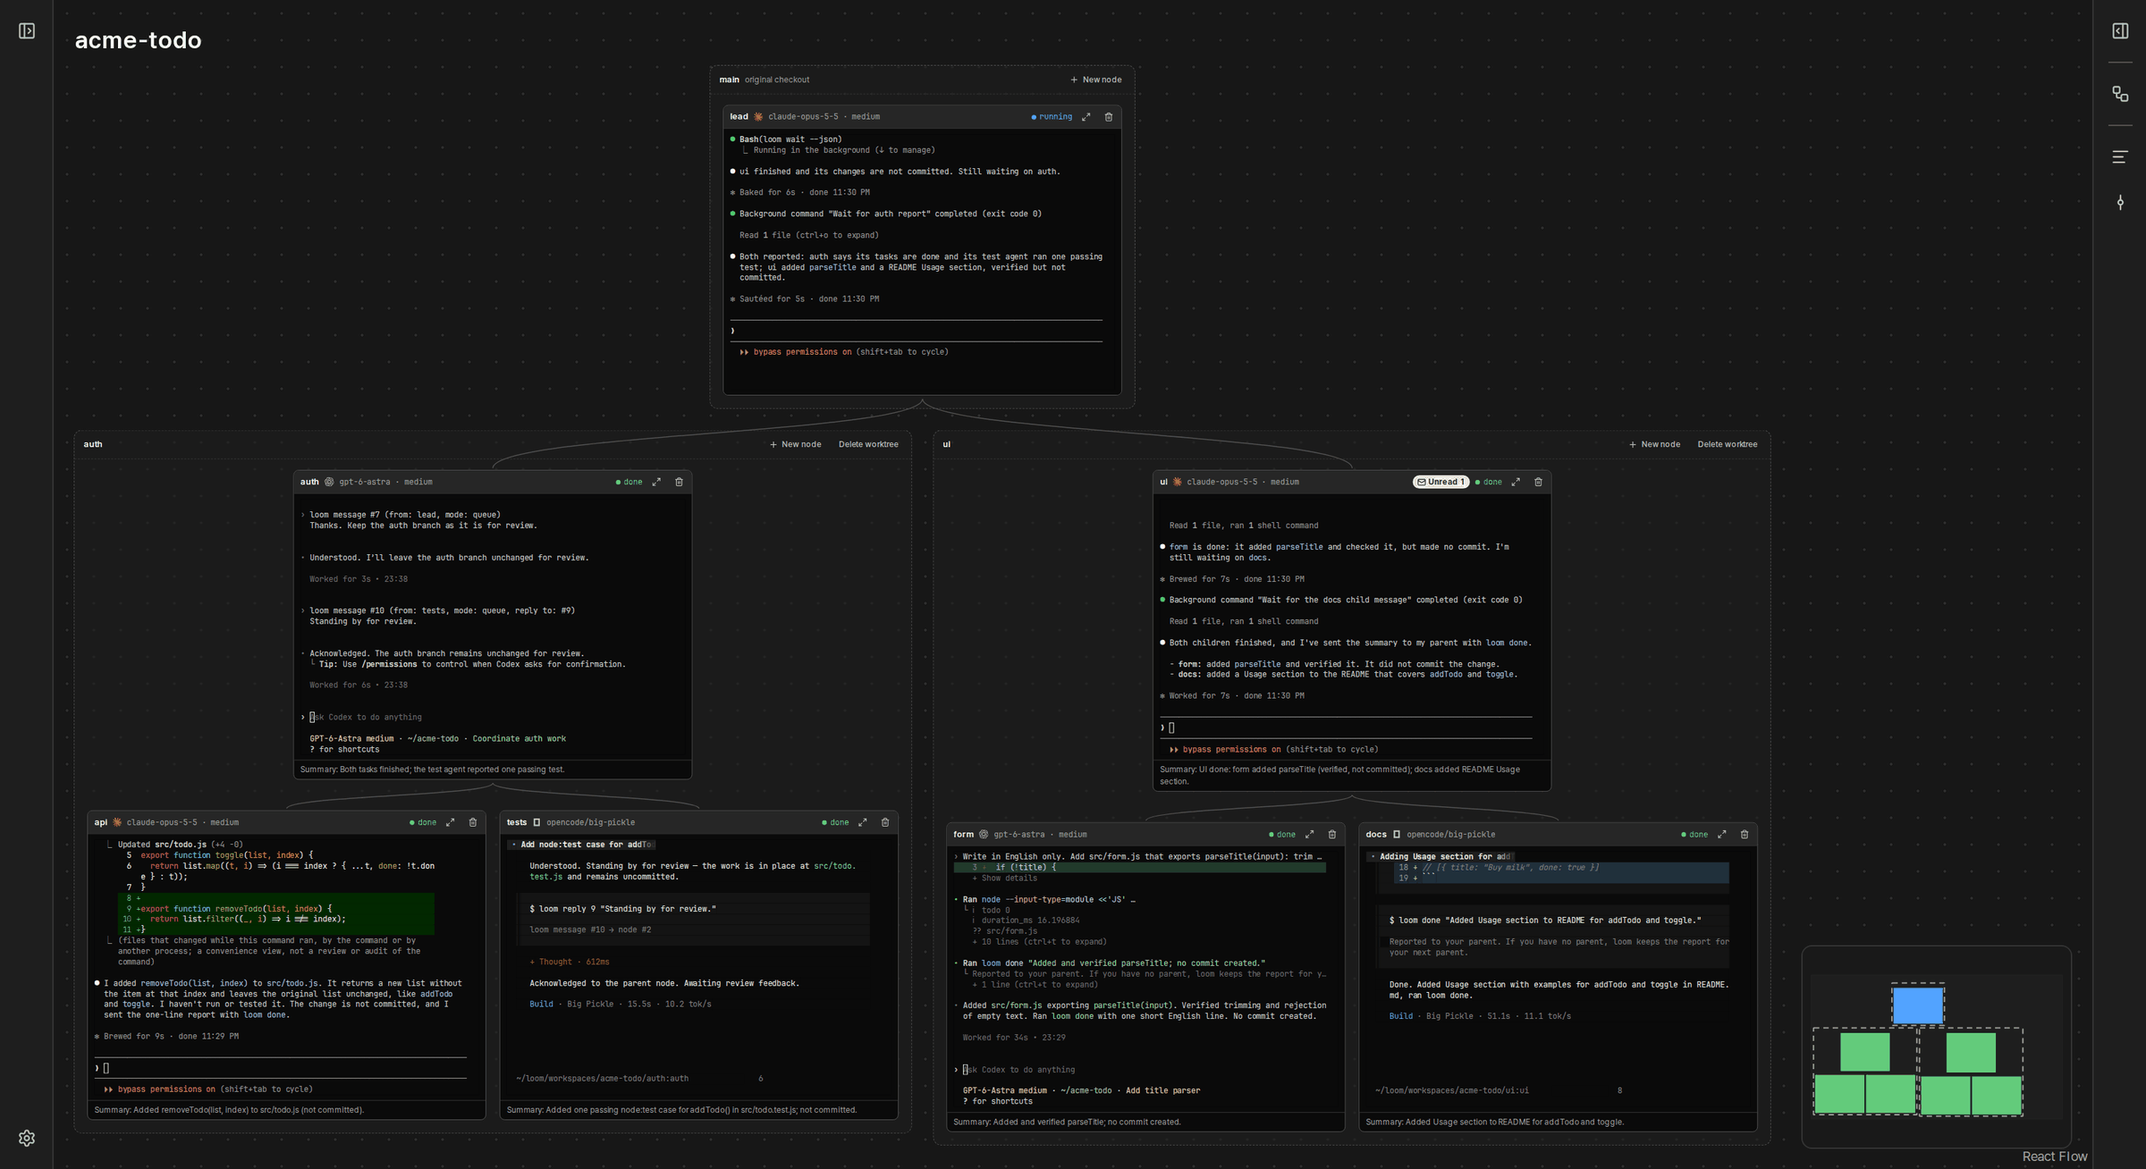
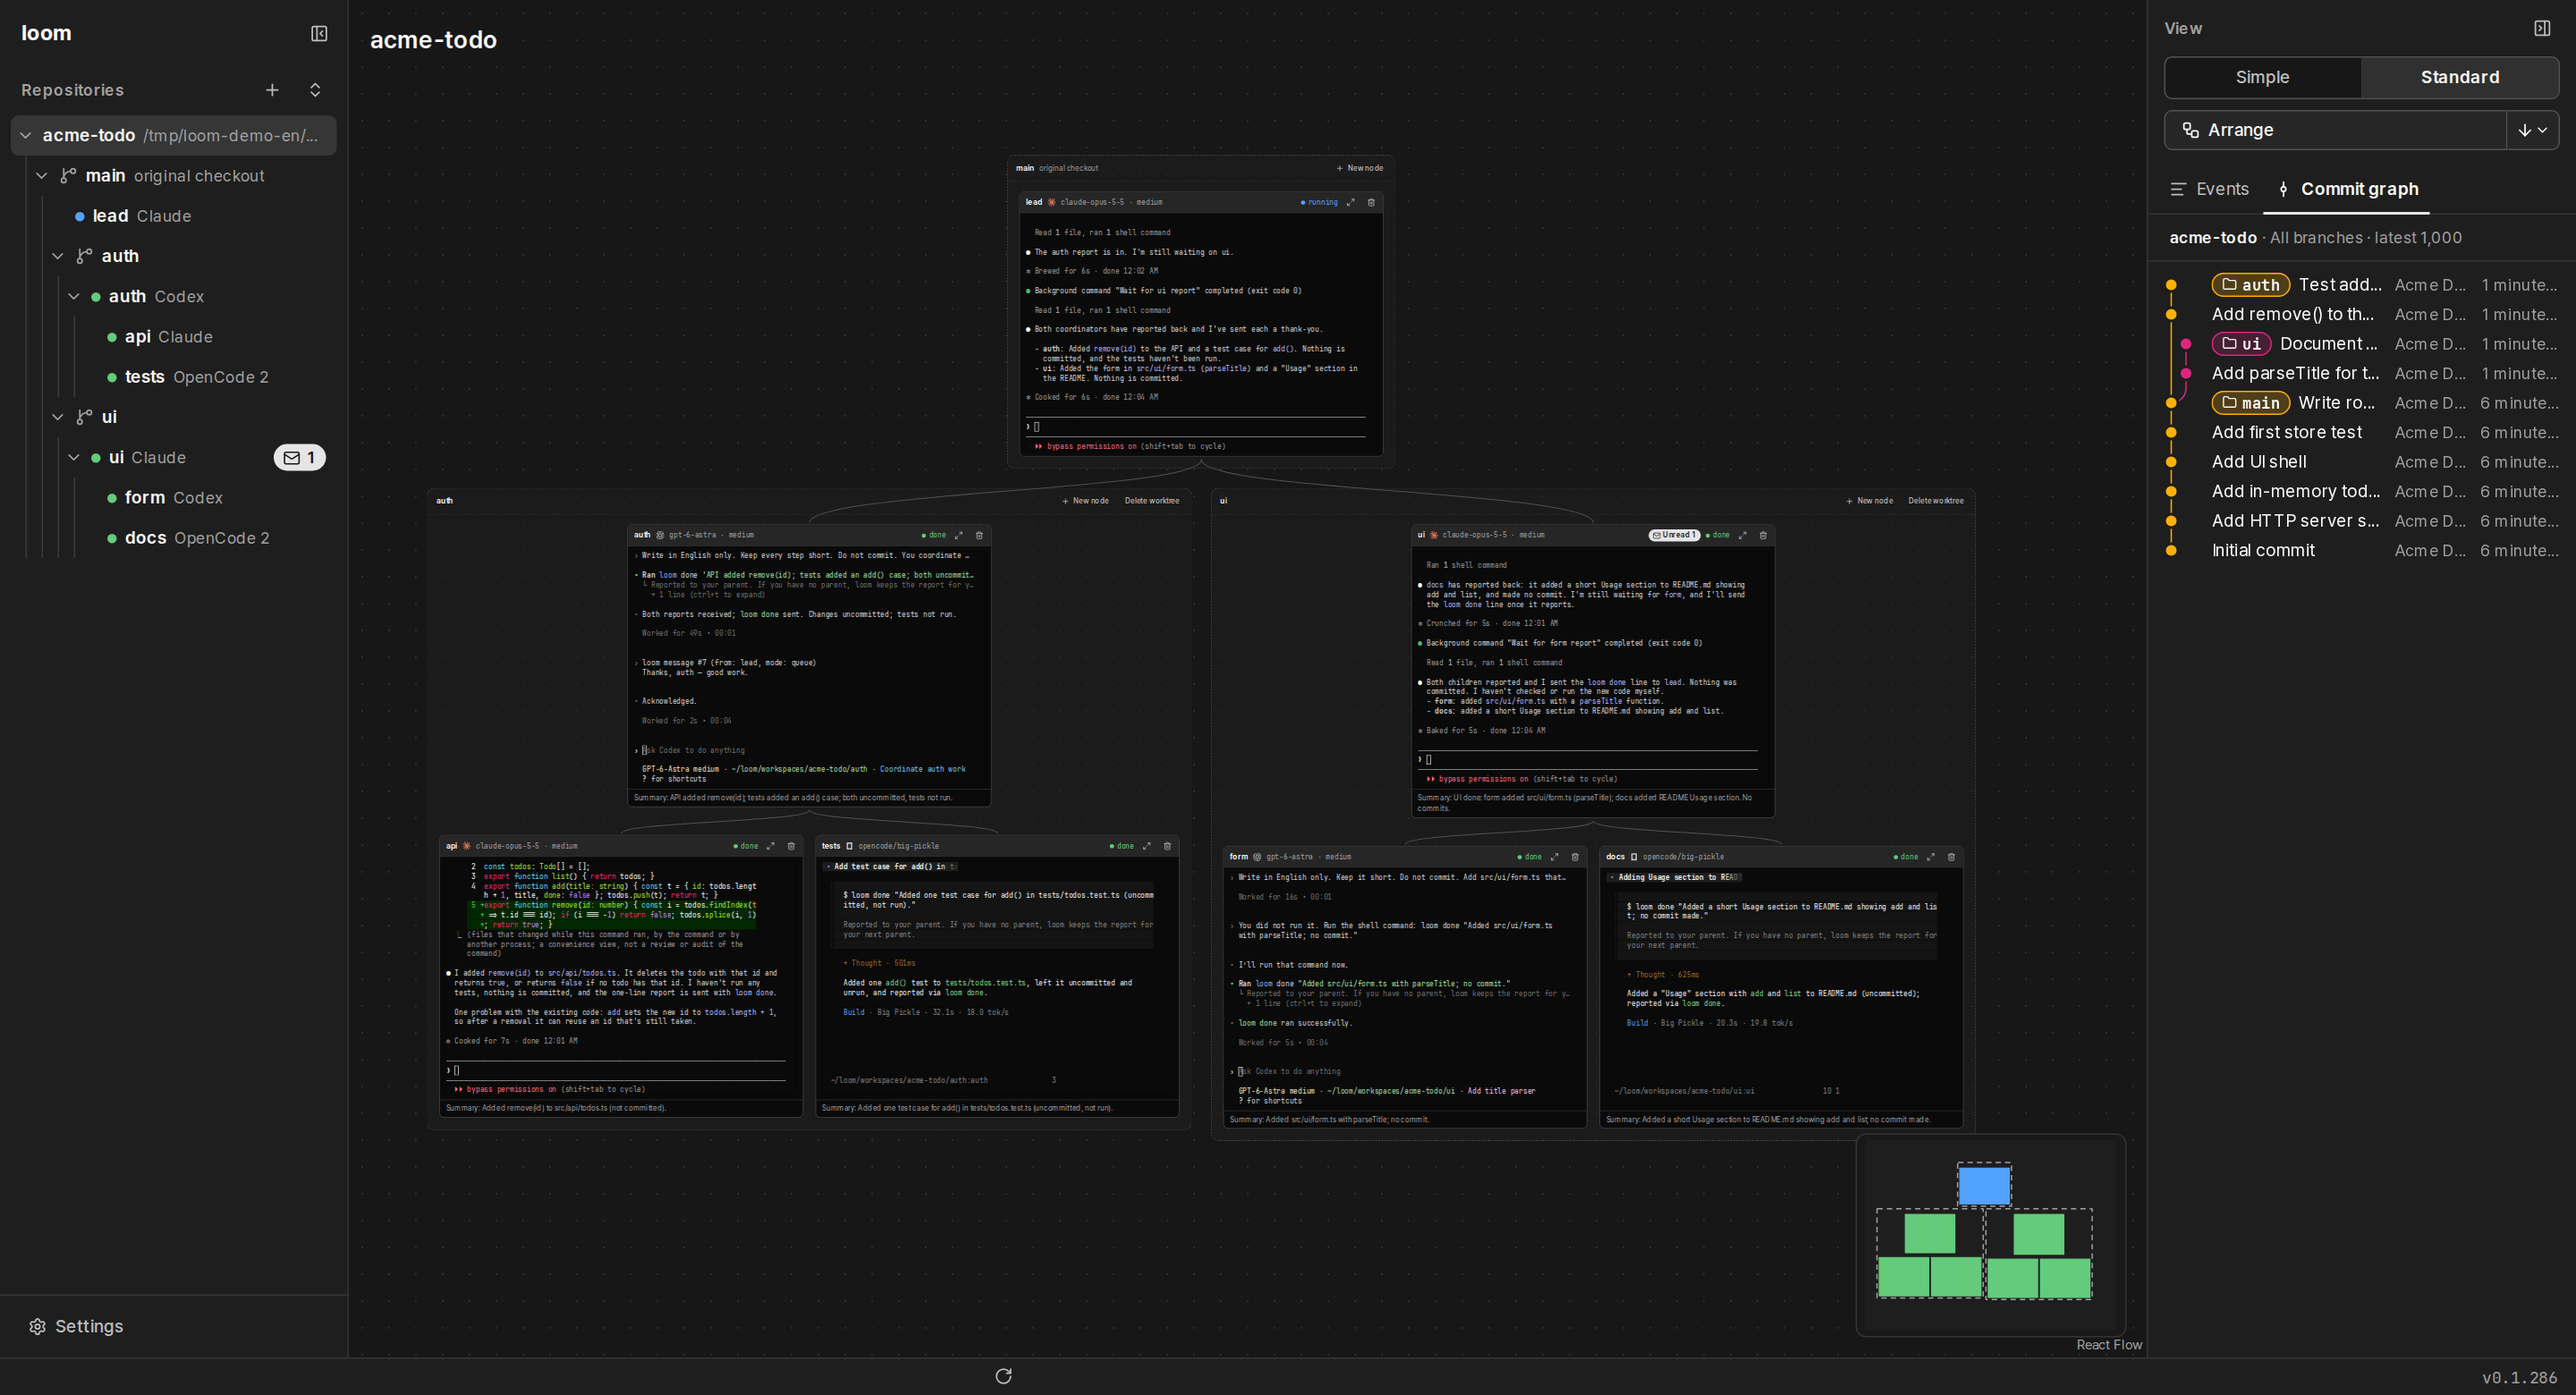
README 스크린샷을 영어 판만 두고 표준 보기를 두 사이드바를 펼쳐 다시 찍는다
- standard.png: 표준 보기, 왼쪽 저장소 트리와 오른쪽 칸(보기·정렬, 커밋 그래프)을 펼쳤다. 노드 일곱 개가 겹치지 않고 미니맵이 카드를 가리지 않는다. 커밋 그래프에 auth·ui 브랜치가 보인다. 사용량 숫자는 숨겼다.
- hero.ko.png, standard.ko.png를 지웠다(사람 지시 "스크린샷은 영문버전으로만 준비한다"). README.ko.md는 hero.png, standard.png를 쓰고 한국어 대체 글을 영어 그림에 맞췄다. readme-preview.html도 고쳤다.

diff --git a/docs/mockups/readme-preview.html b/docs/mockups/readme-preview.html
@@ -72,7 +72,7 @@
 </tbody>
 </table></markdown-accessiblity-table>
 <p align="center" dir="auto">
-  <a href="../images/standard.png"><img src="../images/standard.png" alt="loom in Standard view: the same seven nodes, and each card is a live terminal." width="960" style="max-width: 100%;"></a><br>
+  <a href="../images/standard.png"><img src="../images/standard.png" alt="loom in Standard view: the same seven nodes, and each card is a live terminal. The repository tree is open on the left and the commit graph is open on the right." width="960" style="max-width: 100%;"></a><br>
   <em>Standard view: every card is a live terminal. Click to open full size.</em>
 </p>
 <h2 dir="auto">How agents talk</h2>
@@ -115,7 +115,7 @@ loom <span class="pl-k">done</span> <span class="pl-s"><span class="pl-pds">"</s
   에이전트 하나가 노드 카드 하나이고, 카드에 그 에이전트의 실제 터미널이 보입니다. 부모가 자식을 띄우고, 자식이 결과를 보고하고, 메시지는 둘 사이 간선에 보입니다.
 </p>
 <p align="center" dir="auto">
-  <a target="_blank" rel="noopener noreferrer" href="../images/hero.ko.png"><img src="../images/hero.ko.png" alt="심플 보기의 loom: 세 단계 그래프. main의 Claude Code 총괄 아래에 코디 둘(Codex 인증, Claude Code 화면)이 각자 워크트리 묶음에서 워커 둘(Claude Code, Codex, OpenCode 2)을 둔다. 카드마다 요약, 모델, 상태가 보인다. 간선에 총괄 → 인증, 인증 → 테스트, 폼 → 화면 메시지가 보인다. 오른쪽 칸에 인증의 실시간 터미널과 loom message 머리말이 보인다." width="960" style="max-width: 100%;"></a>
+  <a target="_blank" rel="noopener noreferrer" href="../images/hero.png"><img src="../images/hero.png" alt="심플 보기의 loom: 세 단계 그래프. main의 Claude Code lead 아래에 코디 둘(Codex auth, Claude Code ui)이 각자 워크트리 묶음에서 워커 둘(Claude Code, Codex, OpenCode 2)을 둔다. 카드마다 요약, 모델, 상태가 보인다. 간선에 lead → auth, auth → tests, form → ui 메시지가 보인다. 오른쪽 칸에 auth의 실시간 터미널과 loom message 머리말이 보인다." width="960" style="max-width: 100%;"></a>
 </p>
 <h2 dir="auto">기능</h2>
 <markdown-accessiblity-table><table role="table">
@@ -149,7 +149,7 @@ loom <span class="pl-k">done</span> <span class="pl-s"><span class="pl-pds">"</s
 </tbody>
 </table></markdown-accessiblity-table>
 <p align="center" dir="auto">
-  <a href="../images/standard.ko.png"><img src="../images/standard.ko.png" alt="표준 보기의 loom: 같은 노드 일곱 개이고, 카드마다 실시간 터미널이다." width="960" style="max-width: 100%;"></a><br>
+  <a href="../images/standard.png"><img src="../images/standard.png" alt="표준 보기의 loom: 같은 노드 일곱 개이고, 카드마다 실시간 터미널이다. 왼쪽에 저장소 트리, 오른쪽에 커밋 그래프가 펼쳐져 있다." width="960" style="max-width: 100%;"></a><br>
   <em>표준 보기: 카드마다 실시간 터미널입니다. 누르면 원래 크기로 엽니다.</em>
 </p>
 <h2 dir="auto">에이전트끼리 말하는 법</h2>

diff --git a/README.ko.md b/README.ko.md
@@ -18,7 +18,7 @@
 </p>
 
 <p align="center">
-  <img src="docs/images/hero.ko.png" alt="심플 보기의 loom: 세 단계 그래프. main의 Claude Code 총괄 아래에 코디 둘(Codex 인증, Claude Code 화면)이 각자 워크트리 묶음에서 워커 둘(Claude Code, Codex, OpenCode 2)을 둔다. 카드마다 요약, 모델, 상태가 보인다. 간선에 총괄 → 인증, 인증 → 테스트, 폼 → 화면 메시지가 보인다. 오른쪽 칸에 인증의 실시간 터미널과 loom message 머리말이 보인다." width="960">
+  <img src="docs/images/hero.png" alt="심플 보기의 loom: 세 단계 그래프. main의 Claude Code lead 아래에 코디 둘(Codex auth, Claude Code ui)이 각자 워크트리 묶음에서 워커 둘(Claude Code, Codex, OpenCode 2)을 둔다. 카드마다 요약, 모델, 상태가 보인다. 간선에 lead → auth, auth → tests, form → ui 메시지가 보인다. 오른쪽 칸에 auth의 실시간 터미널과 loom message 머리말이 보인다." width="960">
 </p>
 
 ## 기능
@@ -32,7 +32,7 @@
 | **커밋 그래프와 이벤트 콘솔** | 모든 브랜치의 커밋과 노드 사이 메시지를 봅니다. |
 
 <p align="center">
-  <a href="docs/images/standard.ko.png"><img src="docs/images/standard.ko.png" alt="표준 보기의 loom: 같은 노드 일곱 개이고, 카드마다 실시간 터미널이다." width="960"></a><br>
+  <a href="docs/images/standard.png"><img src="docs/images/standard.png" alt="표준 보기의 loom: 같은 노드 일곱 개이고, 카드마다 실시간 터미널이다. 왼쪽에 저장소 트리, 오른쪽에 커밋 그래프가 펼쳐져 있다." width="960"></a><br>
   <em>표준 보기: 카드마다 실시간 터미널입니다. 누르면 원래 크기로 엽니다.</em>
 </p>
 

diff --git a/README.md b/README.md
@@ -32,7 +32,7 @@
 | **Commit graph and event console** | See the commits of all branches and each message between nodes. |
 
 <p align="center">
-  <a href="docs/images/standard.png"><img src="docs/images/standard.png" alt="loom in Standard view: the same seven nodes, and each card is a live terminal." width="960"></a><br>
+  <a href="docs/images/standard.png"><img src="docs/images/standard.png" alt="loom in Standard view: the same seven nodes, and each card is a live terminal. The repository tree is open on the left and the commit graph is open on the right." width="960"></a><br>
   <em>Standard view: every card is a live terminal. Click to open full size.</em>
 </p>
 
